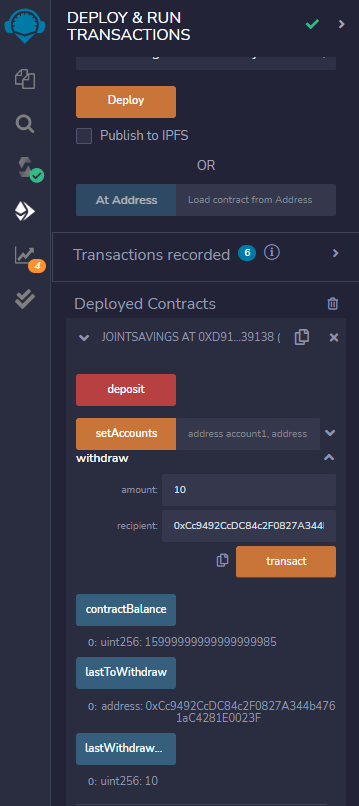
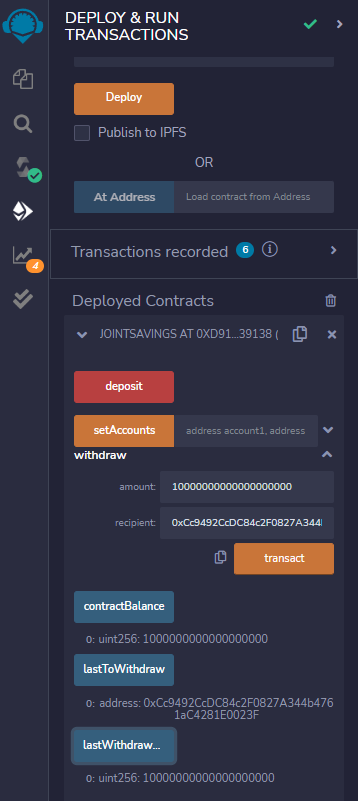
updated Execution_Results png

diff --git a/README.md b/README.md
@@ -11,11 +11,29 @@
 
 
 # Clips on Interaction with Deployed Smart Contract
+# Blank Transaction
 
-![alt text](https://raw.githubusercontent.com/wdriera33/PyChain-Ledger/main/Pic%20Clips/PyChain_Clip_1.png "Logo Title Text 1")
+![alt text](https://raw.githubusercontent.com/wdriera33/JointSavings_Account/main/Execution_Results/CleanAccount.png "Logo Title Text 1")
 
-![alt text](https://raw.githubusercontent.com/wdriera33/PyChain-Ledger/main/Pic%20Clips/PyChain_Clip_2.png "Logo Title Text 1")
+# Deposit 1 ether as wei
 
+![alt text](https://raw.githubusercontent.com/wdriera33/JointSavings_Account/main/Execution_Results/1EtherasWei.png "Logo Title Text 1")
+
+# Deposit 10 ether as wei
+
+![alt text](https://raw.githubusercontent.com/wdriera33/JointSavings_Account/main/Execution_Results/10EtherasWei.png "Logo Title Text 1")
+
+# Deposit 5 ether as wei
+
+![alt text](https://raw.githubusercontent.com/wdriera33/JointSavings_Account/main/Execution_Results/5EtherasWei.png "Logo Title Text 1")
+
+# Withdraw 5 ether accountOne
+
+![alt text](https://raw.githubusercontent.com/wdriera33/JointSavings_Account/main/Execution_Results/WD5etheracc1.png "Logo Title Text 1")
+
+# Withdraw 10 ether accountTwo
+
+![alt text](https://raw.githubusercontent.com/wdriera33/JointSavings_Account/main/Execution_Results/WD10etheracc2.png "Logo Title Text 1")
 
 
 # Overview 
@@ -23,11 +41,6 @@
 * Create a joint savings account accepting 2 user addresses
 * Ether management functions
 * Ability to deposit and withdraw funds
-
-
-
-# Recommendations
-* 
 
 
 ##  Preparation
